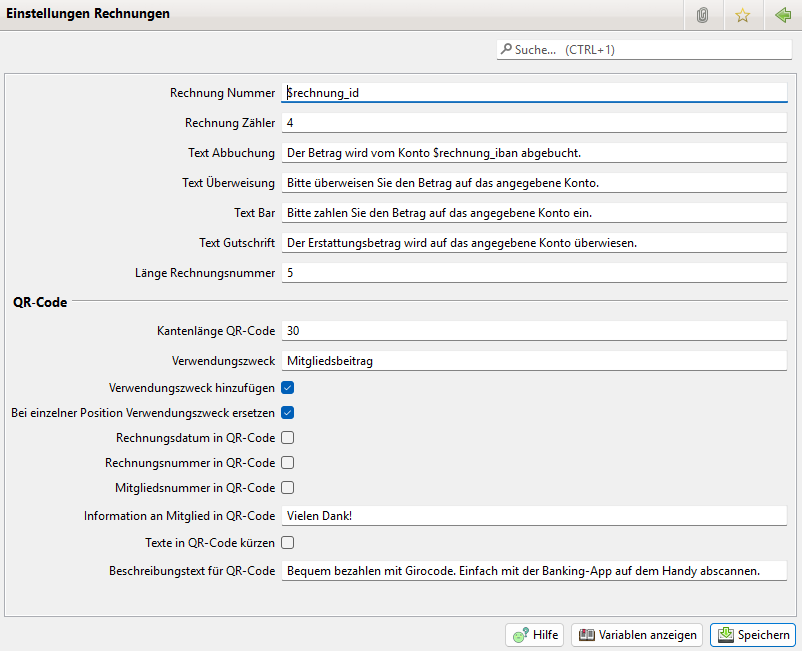
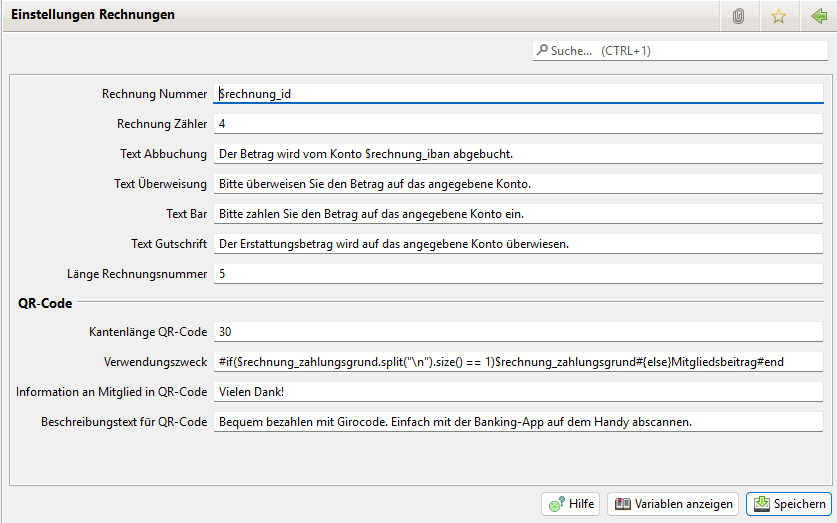
Updates für 4.3

Changed region(s): [[0.0, 0.0, 1.0, 1.0], [0.9663, 0.7036, 0.9975, 0.7342], [0.9663, 0.6424, 0.9975, 0.673]]

diff --git a/v/4.3/notes.md b/v/4.3/notes.md
@@ -30,6 +30,27 @@ Das Format der Rechnungsnummer lässt sich nun unter Administration->Einstellung
 
 Über das Kontextmenü der Buchungen lassen sich Buchungsreports generieren z.B. Ersatzbeleg. Der Report basiert auf Nutzer definierten Formularen. Hierfür wurde eine neue Formularart "Buchungsreport" eingeführt. In den Formularen sind neben den allgemeinen Variablen auch die Buchung Variablen verfügbar.
 
+### Tastaturkürzel (Shortcuts)
+
+Einige Buttons sind jetzt mit Tastaturkürzel hinterlegt. Dies sind:
+* Löschen: Entf
+* Speichern: Ctrl+S
+* Speichern und Neu: Ctrl+Alt+S
+* Vor: Ctrl+->
+* Zurück: Ctrl+<-
+* Hilfe: F1
+* Neu: Ctrl +N
+* PDF: Ctrl+P
+* VerlassenDialog: Ohne Speichern Verlassen: Ctrl+SHIFT+W
+* Neues Mitglied: Alt+M
+* Neue Buchung: Alt+B
+* Neuer Abrechungslauf: Alt+A
+
+Zusätzlich gibt es im OpenJVerein folgende neue Einträge:
+* Neues Mitglied: Alt+M
+* Neue Buchung: Alt+B
+* Neuer Abrechungslauf: Alt+A
+
 ## Kleinere Korrekturen, Erweiterungen oder Modifikationen
 
 ### Auswertungen Menüeinträge gelöscht
@@ -51,16 +72,57 @@ Eine bereits versendete Mail lässt sich nicht mehr ändern. Es lassen sich aber
 * Die Menüeinträge haben Icons
 * Die Tabelle der Abrechnungsläufe hat eine Spalte für Abgeschlossen
 * In Abrechnungslauf Tabellenspalten bei Buchung, Sollbuchung und Lastschrift wird im Text ein Icon eingeblendet wenn der Abrechnungslauf abgeschlossen ist und es in den Einstellungen aktiviert ist
-* Abschließen und Aufschließen sind ausgegraut wenn das Fälligkeitsdatum in einem Jahresabschluß liegt
+* Abschließen und Aufschließen sind ausgegraut wenn das Fälligkeitsdatum in einem Jahresabschluss liegt
 * Prenotification wird nicht mehr blockiert
 * Löschen wird bei abgeschlossenen Abrechnungsläufen nicht ausgegraut, es gibt aber eine Fehlermeldung. Wenn man in den Einstellungen den Haken wieder weg macht, würde man sich sonst wundern, warum Löschen ausgegraut ist
 * Buchungen, Sollbuchungen und Lastschriften von abgeschlossenen Abrechnungsläufen können nicht mehr gelöscht oder editiert werden
 * Ein abgeschlossener Abrechnungslauf kann in DBBereinigen gelöscht werden
 
+### Natürliche Sortierung von Spalten mit Text
+
+Die Variablen für Kontonummer, Nummer der Buchungsart und externe Mitgliedsnummer sind als String implementiert. Es lassen sich neben Ziffern auch Buchstaben verwenden. Wurden Tabellen mit diesen Spalten sortiert, dann wurde lexikografisch sortiert, also so wie auch der Duden sortiert. Bei reinen Zahlen führt dies zu einer unnatürlichen Sortierung.
+
+In der neuen Implementierung werden Zahlenanteile in den Variablen nach Wert der Zahl sortiert. Damit werden reine Zahlenwerte wie erwartet sortiert.
+
+### HTML Mailvorschau
+
+Wird im Text Feld einer Mail der Text als HTML eingegeben, dann wird in der Vorschau dieser als HTML ausgegeben. Die HTML Anzeige in der Vorschau erfolgt falls im Text "<html" vorkommt.
+
+### Tooltip in Tabellen
+
+Wird in einer Tabelle ein Text nicht vollständig angezeigt weil er länger ist als die Spaltenbreite, dann wird der ganze Text als Tooltip angezeigt, wenn man mit der Maus darüber geht.
+
+### Spaltenauswahl über Menü
+
+Klickt man mit der rechten Maustaste auf die Kopfzeile in einer Tabelle, dann wird die Spaltenauswahl Liste angezeigt. Es kann dann direkt eine Spalte aktiviert oder deaktiviert werden.
+
+### Zugeordnete Buchungen im Abrechnungslauf
+
+Im Abrechnungslauf wird ein neuer Tab "Zugeordnete Buchungen" angezeigt. Im Tab "Buchungen" sind nur Buchungen aufgelistet, die durch den Abrechnungslauf erzeugt wurden, also im Falle von Lastschrift.
+
+Im neuen Tab "Zugeordnete Buchungen" werden alle Buchungen angezeigt die den Sollbuchungen des Abrechnungslaufes zugeordnet sind. Man sieht hier also auch die Buchungen die per Überweisung oder Barzahlung erzeugt wurden und später den Sollbuchungen zugeordnet wurden.
+
+### GoBD Konformität
+
+GoBD = Grundsätze zur ordnungsmäßigen Führung und Aufbewahrung von Büchern, Aufzeichnungen und Unterlagen in elektronischer Form sowie zum Datenzugriff
+
+OpenJVerein ist nicht ohne weitere Maßnahmen GoBD konform. So wird z.B. in OpenJVerein keine Historie geführt, diese muss über externe Mechanismen sichergestellt werden. Es wurden mit dieser Version aber Änderungen durchgeführt um allgemein besser GoBD konform zu sein.
+
+Die einzelnen Änderungen sind:
+* Falls Konten Buchungen abgeschlossener Geschäftsjahre zugeordnet sind, können nicht mehr alle Felder der Konten geändert werden
+* Falls Buchungsarten von Buchungen abgeschlossener Geschäftsjahre verwendet werden, können nicht mehr alle Felder der Buchungsart geändert werden
+* Versanddatum von Rechnung, Spendenbescheinigung und Lastschrift lässt sich nicht mehr editieren und löschen
+* Bereits versendete versendete Rechnungen und Spendenbescheinigungen können nicht mehr gelöscht werden
+
+
 ## Sonstiges
 
 * Einige Fehlerkorrekturen
 * Carlito Schriftart (Calibri kompatibel) hinzugefügt
-* Falls Konten Buchungen abgeschlossener Geschäftsjahre zugeordnet haben, können nicht mehr alle Felder geändert werden
-* Falls Buchungsarten von Buchungen abgeschlossener Geschäftsjahre verwendet werden, können nicht mehr alle Felder geändert werden
-* Versanddatum von Rechnung, Spendenbescheinigung und Lastschrift lässt sich nicht mehr editieren
+* Kommentar bei Buchungen lässt sich in der Liste der Buchungen als optionale Spalte anzeigen (per Default wird sie nicht angezeigt)
+* Der Verwendungszweck für den QR Code in Rechnungen lässt sich jetzt mit Variablen anpassen
+* Fix für Zeilenumbruch in der Mailsignatur
+* Der Variablen Dialog zeigt unter Windows nur noch die erste Zeile des Textes an. Der Grund ist, dass mehrzeilige Texte unter Windows nicht umgebrochen werden
+* Bei Mailversand wird nun des Zip File nur temporär erzeugt und wieder gelöscht. Es erfolgt dann keine Abfrage für den Ordner mehr
+* Die Infobox bei Splitbuchungen wird nur noch angezeigt wenn mehr als eine Buchung selektiert wurde
+

diff --git a/v/4.3/abrech/abrechnungslauf.md b/v/4.3/abrech/abrechnungslauf.md
@@ -34,5 +34,5 @@ In den Tabs werden die durch den Abrechnungslauf erzeugten Buchungen, Sollbuchun
 
 Über die CSV/PDF Panel Buttons wird des jeweils angezeigte Tab ausgegeben.
 
-<picture><img src="https://github.com/openjverein/jverein-Book/raw/master/assets/402_AbrechnungslaufView.png" alt="" /></picture>
+<picture><img src="https://github.com/openjverein/jverein-Book/raw/master/assets/403_AbrechnungslaufView.png" alt="" /></picture>
 
